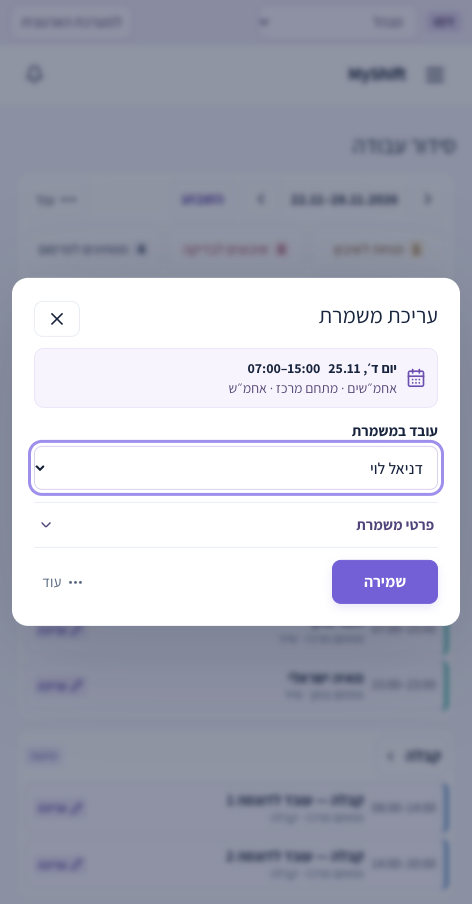
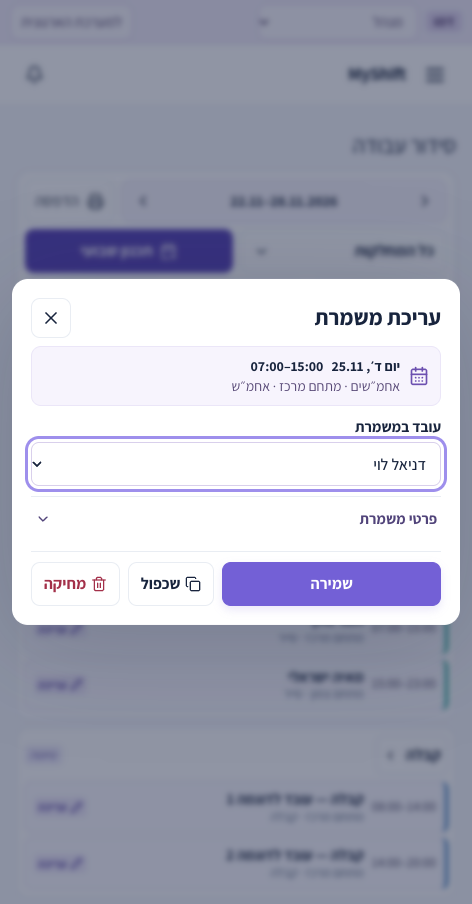
Document weekly planning and refresh workspace screenshots

diff --git a/README.md b/README.md
@@ -36,17 +36,17 @@ npm run dev
 
 1. היכנסו לדמו ובחרו **מנהל** בפס הדמו בראש הדף. במסך **סידור עבודה** אפשר לעבור שבוע, לסנן לפי מחלקה או לראות רק משמרות פנויות ושיבוצים שדורשים בדיקה. בטלפון בוחרים גם יום.
 2. לחצו **פנויות לשיבוץ**, פתחו את המשמרת הפנויה בסיירים ובחרו עובד זמין. לחצו **שמירה**. אפשר לבטל את הפעולה האחרונה מההודעה שמופיעה אחרי השמירה.
-3. פתחו את סידור המחלקה דרך שמה בלוח. משם אפשר להוסיף משמרת ידנית, ליצור או להשלים טיוטה ולבצע שיבוץ אוטומטי. השיבוץ האוטומטי מתחשב בזמינות, בהכשרות ובחפיפות. **חזרה לכל המחלקות** מחזירה ליום, לסינון ולמיקום הקודם בלוח.
+3. לחצו **תכנון שבועי** בלוח ובחרו מחלקה כדי לראות הצעה להוספת משמרות ולמילוי משמרות פנויות לשבוע הנבחר. השיבוץ מתחשב בזמינות, בהכשרות ובחפיפות. לחצו **אישור ושמירה כטיוטה** כדי להחיל את ההצעה. השיבוצים הקיימים נשמרים ופרסום לעובדים מתבצע בנפרד.
 4. לחצו **פרסום סידור** כשהטיוטה מוכנה. כדי לשנות סידור שפורסם, לחצו **פתיחה לעריכה**, ערכו את המשמרות ופרסמו מחדש.
 
-תאריך, שעות, אתר ותפקיד נמצאים תחת **פרטי משמרת** בעורך. תפריט **עוד** בסידור המחלקה כולל העתקה, שחזור, ייבוא CSV או XLSX וייצוא Excel. תפריט **עוד** בלוח הראשי מאפשר להדפיס את כל השבוע או לשמור אותו כ־PDF.
+לחצו על שם מחלקה בלוח כדי להוסיף לה משמרת ידנית או לנהל את הטיוטה שלה. **חזרה לכל המחלקות** מחזירה ליום, לסינון ולמיקום הקודם בלוח. תאריך, שעות, אתר ותפקיד נמצאים תחת **פרטי משמרת** בעורך. פעולות שכפול ומחיקה נמצאות לצד השמירה. תפריט **עוד** בסידור המחלקה כולל העתקה, שחזור, ייבוא CSV או XLSX וייצוא Excel. בלוח הראשי אפשר להדפיס את השבוע או לשמור אותו כ־PDF ישירות מכפתור ההדפסה.
 
 ### צפייה כעובד וניהול צוות
 
 - **עובד בדמו** בוחר את שמו בפס הדמו. ב־**המשמרות שלי** מופיעים השיבוצים האישיים שפורסמו. כדי לראות פרסום לדוגמה בלי לפרסם בעצמכם, בחרו בדניאל לוי ועברו שבוע אחד אחורה בדמו חדש.
 - **הפרופיל שלי** מרכז דיווחי זמינות והיעדרויות. בסביבת הארגון הגישה נקבעת לפי החשבון וההרשאות שלו.
-- **צוות** כולל עובדים, הכשרות ושיוכים למחלקות. בדמו מופיעים כאן גם תלושים ותזכורות לתרגול.
-- **הגדרות** כוללות מבנה ארגון, אתרים, תבניות שעות, דרישות איוש ויומן פעילות. **התראות** נפתחות מהפעמון.
+- **צוות** כולל חיפוש עובדים וסינון לפי מחלקה, תפקיד, מיקום והיעדרות בשבוע הנבחר. מכרטיס עובד אפשר לנהל הכשרות, זמינות והיעדרויות. בדמו מופיעים כאן גם תלושים ותזכורות לתרגול.
+- **הגדרות** כוללות מבנה ארגון, אתרים, תבניות שעות, דרישות איוש ויומן פעילות. אפשר לסנן את דרישות האיוש של מחלקה לפי יום, אתר ותפקיד. **התראות** נפתחות מהפעמון.
 
 <a id="screenshots"></a>
 
@@ -56,7 +56,7 @@ npm run dev
 | :---: | :---: | :---: |
 | <img src="docs/screenshots/roster-mobile.png" alt="לוח שבועי בטלפון עם בחירת יום ומחלקה" width="240"> | <img src="docs/screenshots/shift-editor-mobile.png" alt="עורך משמרת עם בחירת עובד ושמירה" width="240"> | <img src="docs/screenshots/employee-mobile.png" alt="סידור אישי שפורסם לעובד בדמו" width="240"> |
 
-[דף הפתיחה במחשב](docs/screenshots/home-schedule-desktop.png) · [דף הפתיחה בטלפון](docs/screenshots/home-schedule-mobile.png) · [תלושים ותזכורות](docs/screenshots/team-desk.png)
+[צוות בטלפון](docs/screenshots/team-mobile.png) · [הגדרות בטלפון](docs/screenshots/settings-mobile.png) · [תלושים ותזכורות](docs/screenshots/team-desk.png) · [דף הפתיחה במחשב](docs/screenshots/home-schedule-desktop.png) · [דף הפתיחה בטלפון](docs/screenshots/home-schedule-mobile.png)
 
 ### משמרות בשבוע הראשון בדמו
 
